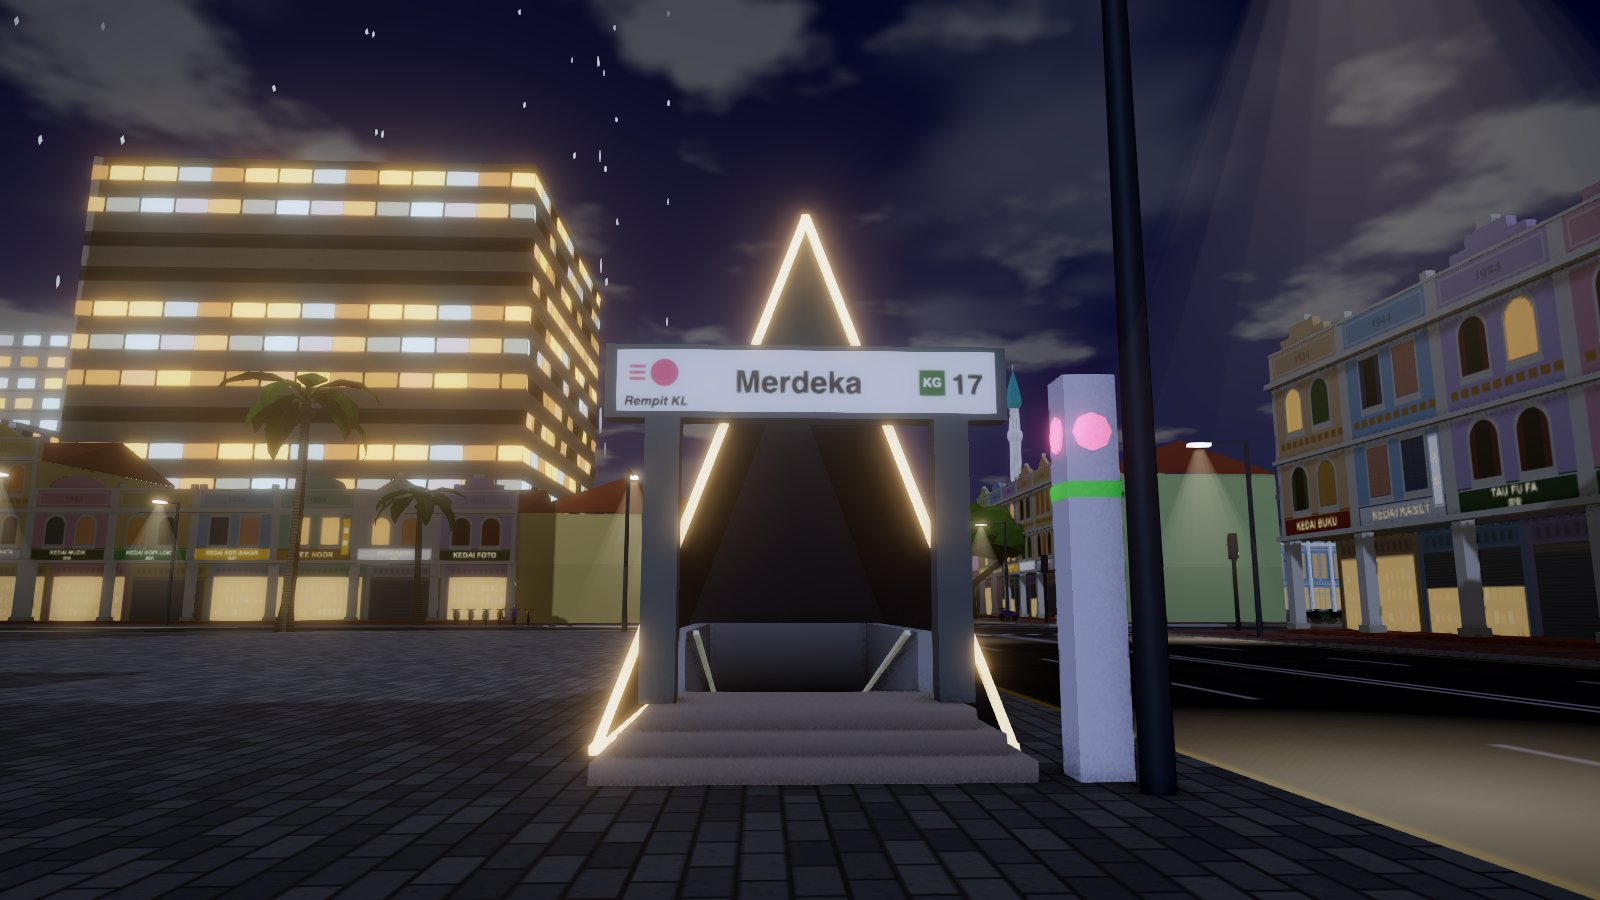
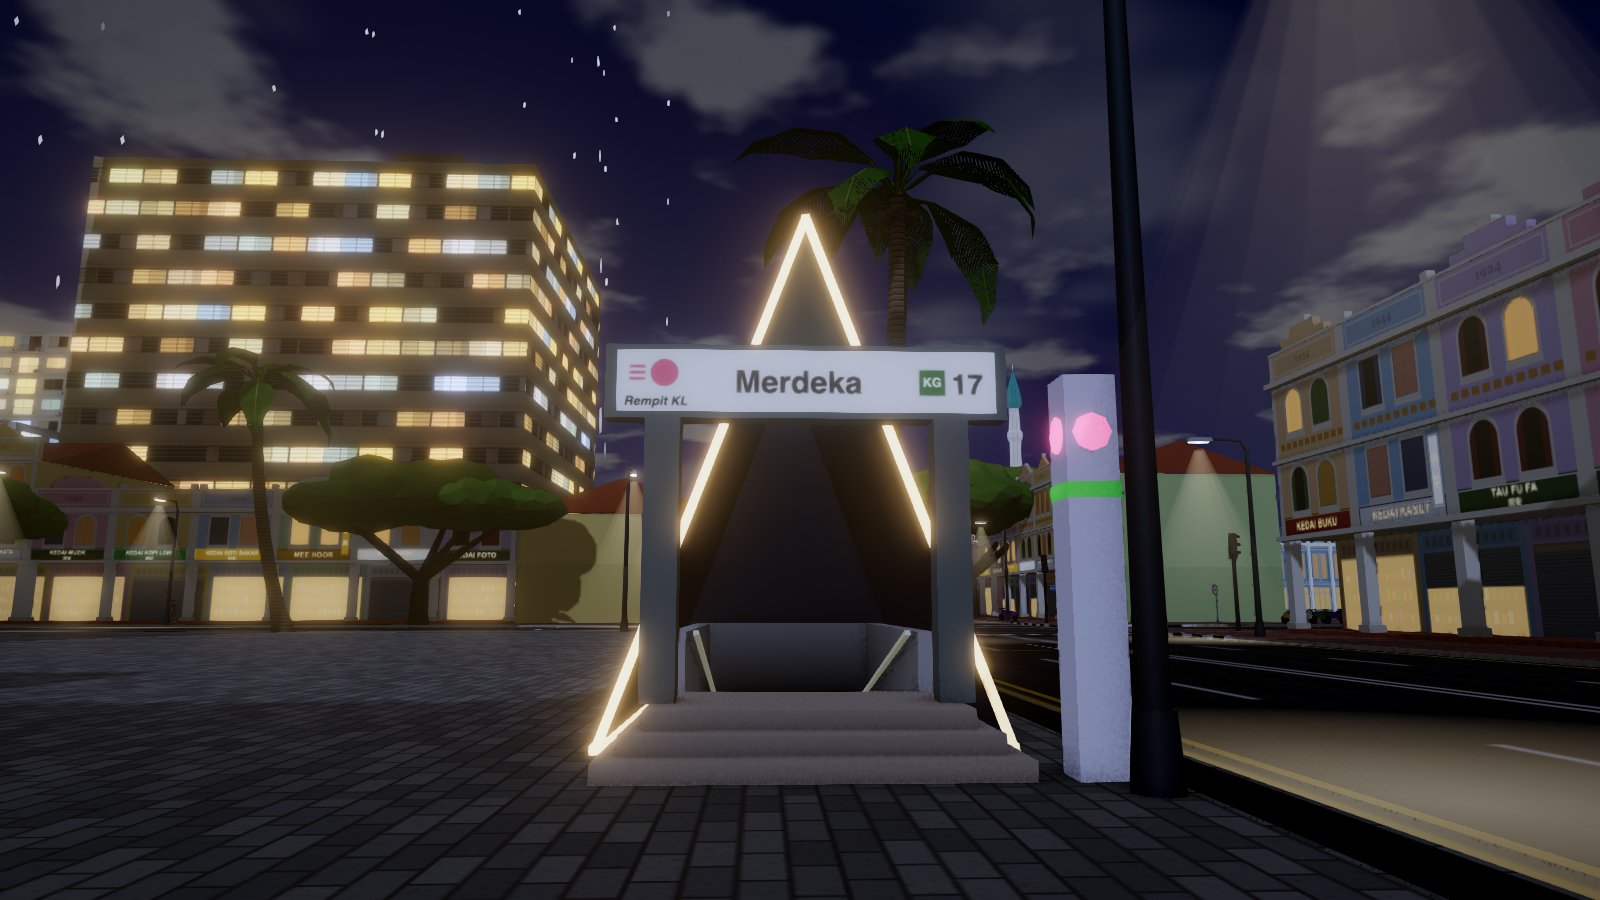
0.6 Beta screenshots: AKLEH, street details, chain shops, Arc 3, Tunda, Titiwangsa, the new look, photo mode and the phone

diff --git a/README.md b/README.md
@@ -29,6 +29,12 @@
 
 | | |
 | --- | --- |
+| ![The AKLEH elevated highway at night, seen from the road below, its piers and deck lamps lit](media/screens/akleh-night-piers.jpg) | ![The AKLEH elevated highway along Jalan Ampang by day, leading to the Petronas Twin Towers](media/screens/akleh-day-jalan-ampang.jpg) |
+| ![A corner of Jalan Ampang with a blue street-name sign, black-and-white kerbs and the AKLEH deck beyond](media/screens/street-corner-jalan-ampang.jpg) | ![A footbridge over a street of colourful shophouses](media/screens/footbridge-crossing.jpg) |
+| ![A 99 Siput Mart convenience store lit up at night](media/screens/siput-mart-night.jpg) | ![A kapcai rider racing a monorail train along Jalan Ampang in Arc 3](media/screens/arc3-kejar-monorel.jpg) |
+| ![A yellow tow lorry towing a broken-down car](media/screens/tunda-tow-lorry.jpg) | ![Tasik Titiwangsa at dusk with the Kuala Lumpur skyline beyond the lake](media/screens/titiwangsa-lake.jpg) |
+| ![KL Tower and the Petronas Twin Towers against green rainforest hills at golden hour](media/screens/towers-hills-golden-hour.jpg) | ![Photo mode on Jalan Alor at dusk with the Warm look and the photo controls on screen](media/screens/photo-mode-jalan-alor.jpg) |
+| ![The in-game phone showing the completion screen](media/screens/phone-completion.jpg) |  |
 | ![Merdeka station entrance at night with its lit name banner](media/screens/entrance-merdeka-night.jpg) | ![Kampung Baru station entrance pavilion by day](media/screens/entrance-kampung-baru-day.jpg) |
 | ![Pasar Seni station entrance at night](media/screens/entrance-pasar-seni-night.jpg) | ![An underground train in the tunnel between stations](media/screens/underground-tunnel-ride.jpg) |
 | ![The full map over Kuala Lumpur](media/screens/satellite-map-kl.jpg) | ![The full map zoomed out to all of Malaysia](media/screens/satellite-map-malaysia.jpg) |
